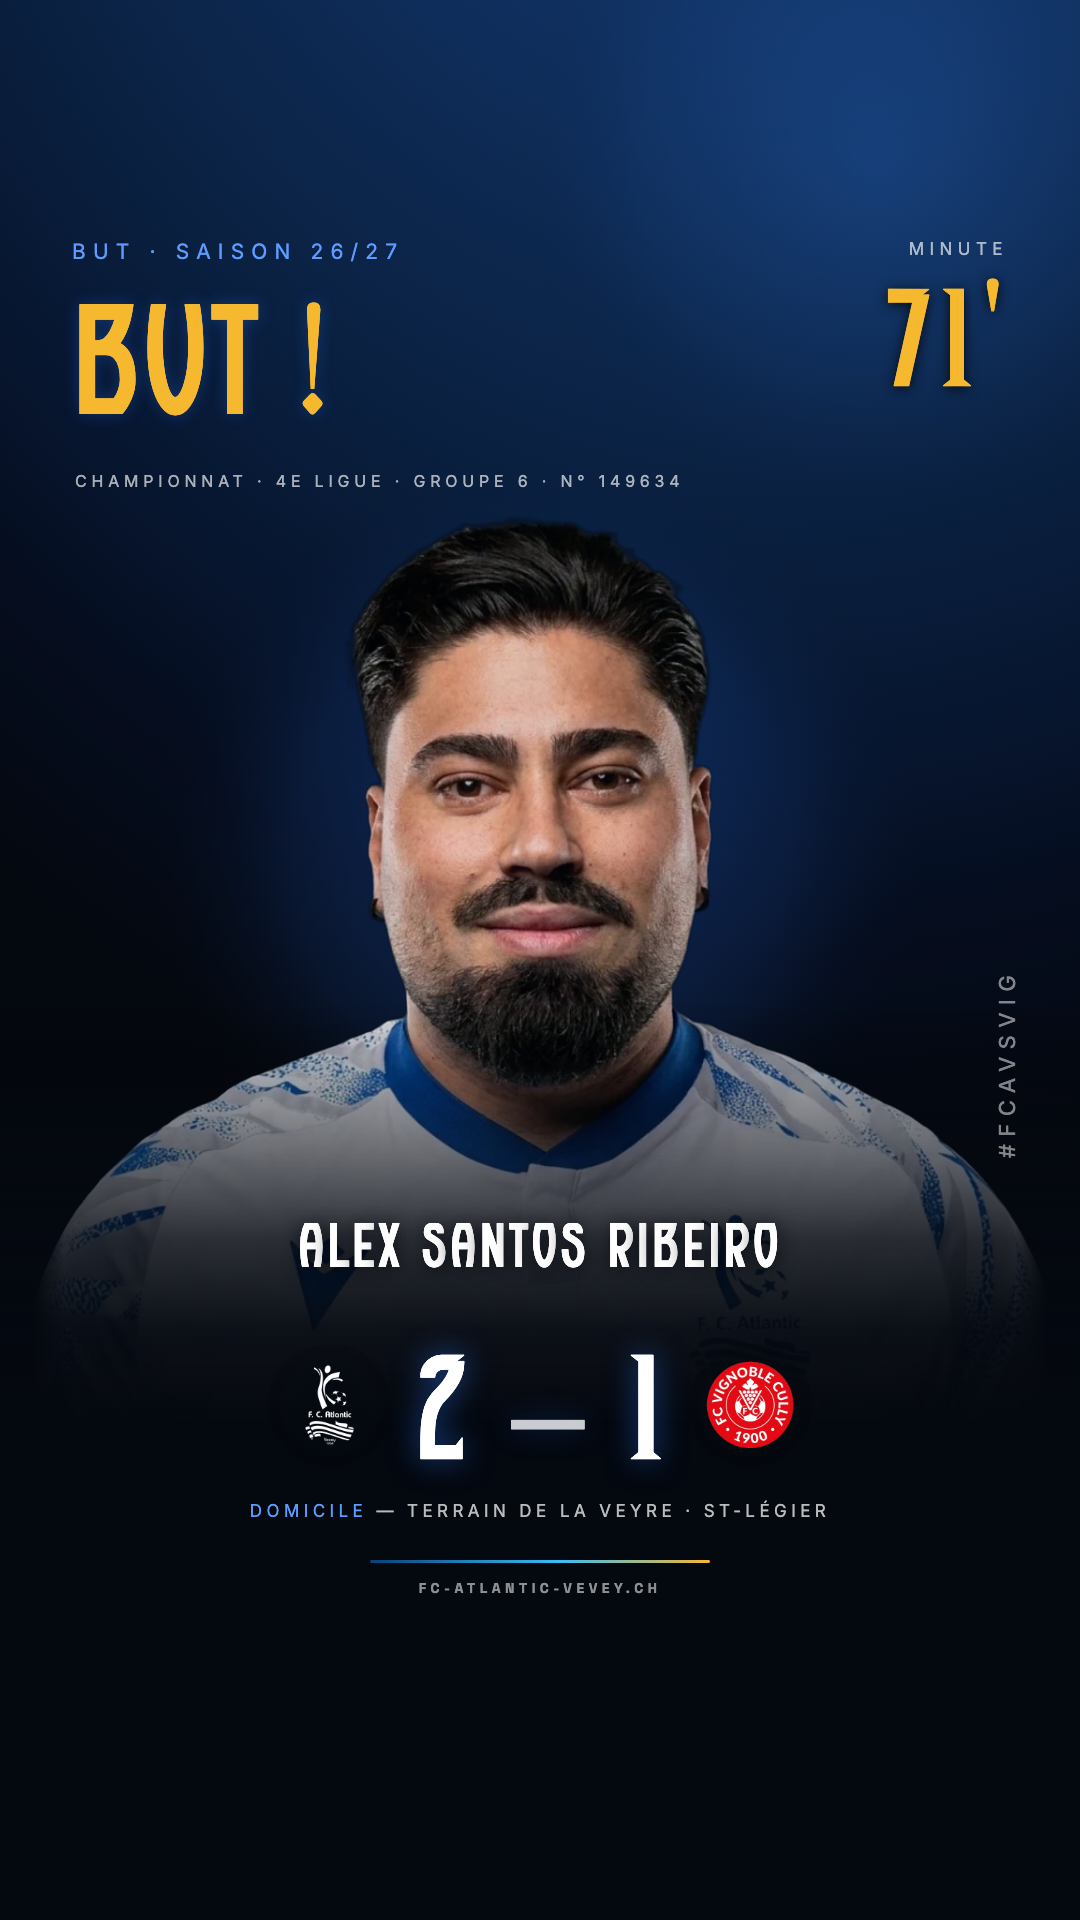
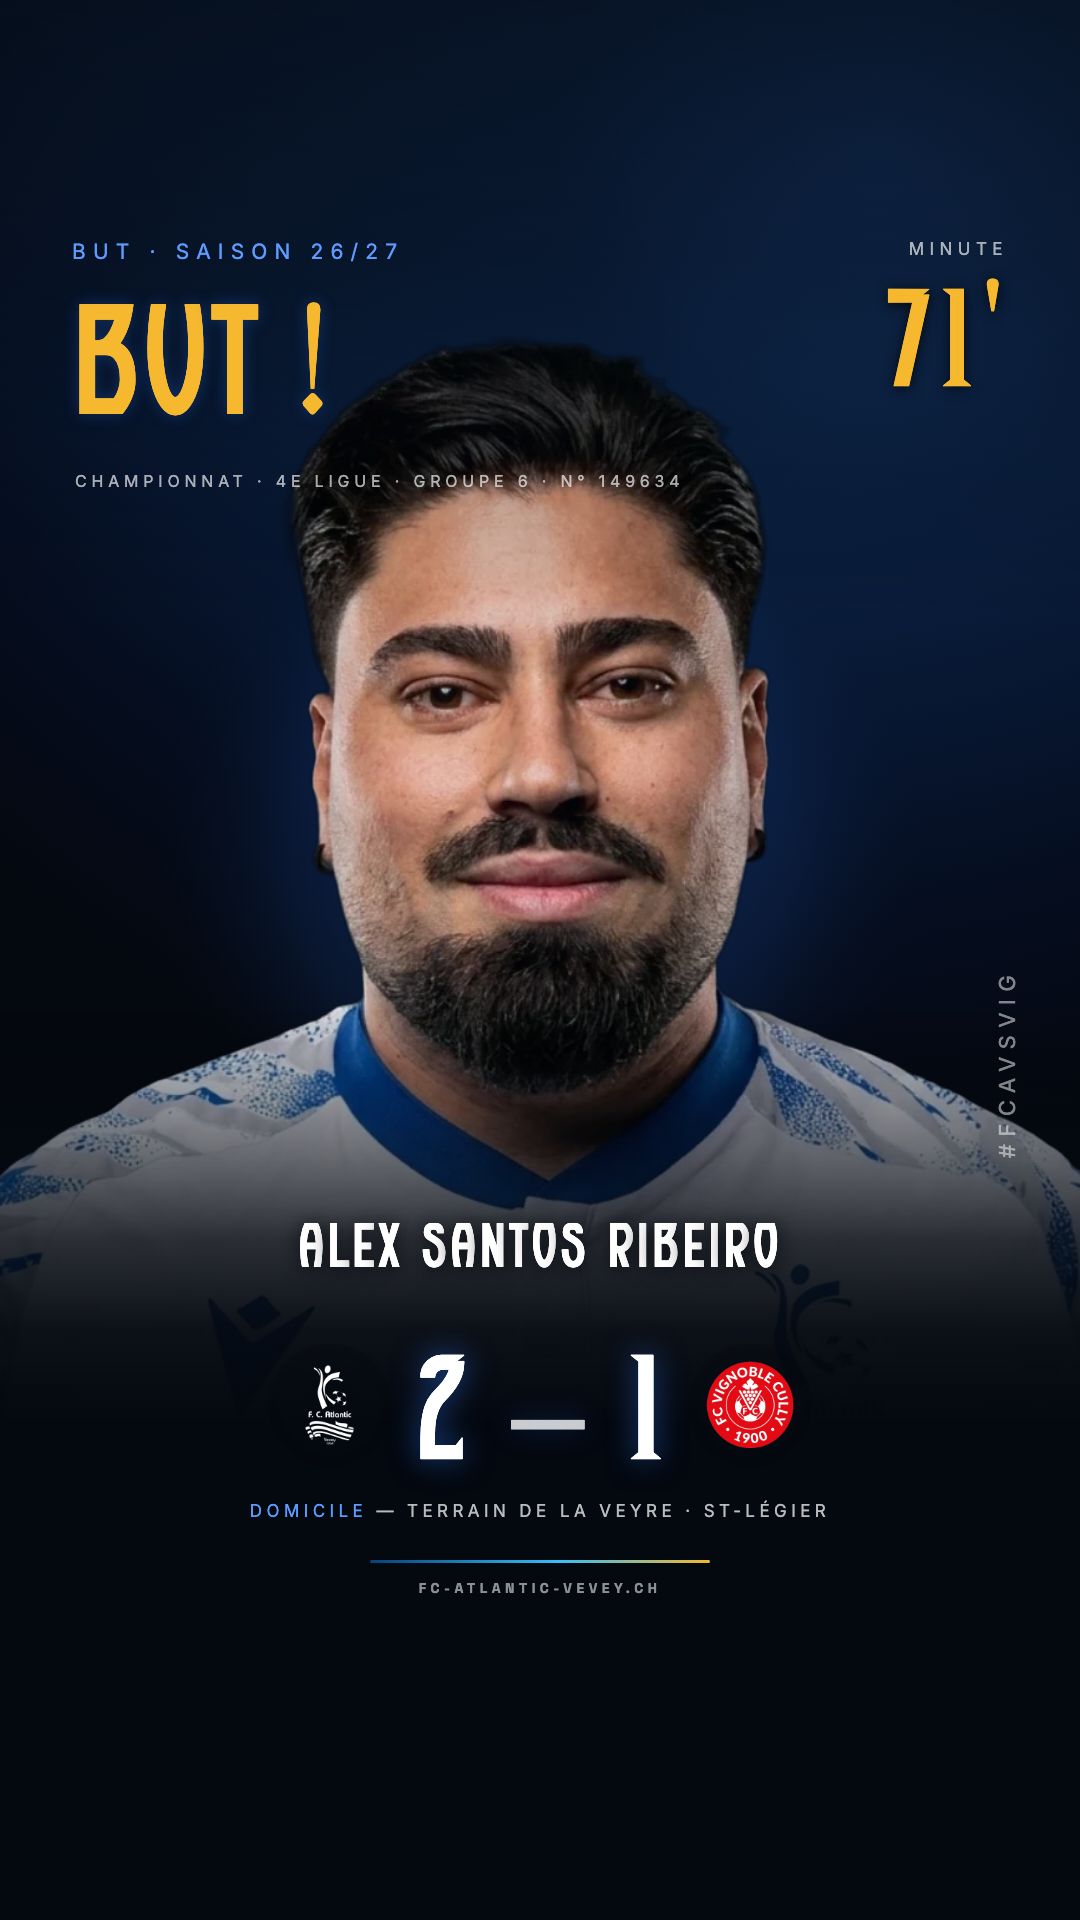
feat(design): joueur plein cadre + import d'une image de fond
Boss 11.08 : « plus zoomé, le joueur apparaît quasiment sur toute l'image de
haut en bas » + « laisser le choix d'upload aussi ».

- Le buste détouré passe de 1330 à 1700px de haut, ancré y330 : il occupe
  toute la hauteur et déborde du cadre. Positionné par la FACE (centrée dans
  la découpe) et non par le bord, pour que le décalage gauche/droite reste
  lisible malgré le débordement.
- Voile haut 620px sans bord visible : le titre reste net sur les cheveux
  (mesuré 18:1 sur les trois variantes testées).
- Tuile « Importer » dans le sélecteur de visage : le président charge sa
  propre photo, rendue plein cadre (cover) avec un dégradé de lecture en
  haut. Réduite à 1400px JPEG avant stockage — une photo d'iPhone brute
  ferait sauter le quota localStorage et emporterait l'état du match.
- Le choix (joueur OU image) est persisté avec le reste de l'état du match.

diff --git a/index.html b/index.html
@@ -672,6 +672,10 @@
     homeAway: 'away',
     // 'championnat' → eyebrow 4E LIGUE · GROUPE 6 + #4eLigue · 'coupe' → BCV CUP + #BCVCup · 'amical' → MATCH AMICAL
     competition: 'coupe',
+    // Image de fond importée par le président (dataURL JPEG réduite).
+    // Quand elle est posée, elle remplace le joueur sur toutes les variantes
+    // sauf « But » (là, c'est toujours le buteur).
+    customHeroImage: '',
     // Joueur en fond choisi à la main ('' = rotation automatique par match).
     // Ne s'applique JAMAIS au variant But : là, le héros est le buteur.
     heroPlayerId: '',
@@ -732,7 +736,39 @@
     const conv = withPhotos.filter(isConvoked);
     return (conv.length ? conv : withPhotos).sort((a, b) => (a.jerseyDisplay || 99) - (b.jerseyDisplay || 99));
   }
+  /* Import d'une image de fond. On la réduit à 1400px de large en JPEG
+     avant de la garder : une photo d'iPhone brute ferait exploser le quota
+     de stockage et l'état du match serait perdu au rechargement. */
+  window.loadHeroUpload = function(file) {
+    if (!file) return;
+    const reader = new FileReader();
+    reader.onload = () => {
+      const im = new Image();
+      im.onload = () => {
+        const maxW = 1400;
+        const scale = Math.min(1, maxW / im.width);
+        const c = document.createElement('canvas');
+        c.width = Math.round(im.width * scale);
+        c.height = Math.round(im.height * scale);
+        c.getContext('2d').drawImage(im, 0, 0, c.width, c.height);
+        state.customHeroImage = c.toDataURL('image/jpeg', 0.86);
+        state.heroPlayerId = '';
+        toast('Image de fond importée', 'blue');
+        renderPanel(); refresh();
+      };
+      im.onerror = () => toast('Image illisible', 'red');
+      im.src = reader.result;
+    };
+    reader.onerror = () => toast('Lecture impossible', 'red');
+    reader.readAsDataURL(file);
+  };
+  window.clearHeroUpload = function() {
+    state.customHeroImage = '';
+    toast('Image retirée', 'blue');
+    renderPanel(); refresh();
+  };
   window.setHeroPlayer = function(id) {
+    state.customHeroImage = '';
     state.heroPlayerId = id || '';
     const p = id ? BY_ID[id] : null;
     if (p) ensureCutout(p);
@@ -791,7 +827,10 @@
      pose sur le décor. On garde la photo d'origine en secours. */
   const CUTOUT_CACHE = {};
   const _cutoutFetching = new Set();
-  function heroImage(p) {
+  function heroImage(p, allowCustom = true) {
+    /* Image importée : elle porte son propre décor, on la traite en fond
+       plein cadre (pas en buste détouré). */
+    if (allowCustom && state.customHeroImage) return { src: state.customHeroImage, mode: 'bg' };
     if (!p) return null;
     if (p.cutoutUrl && CUTOUT_CACHE[p.cutoutUrl]) return { src: CUTOUT_CACHE[p.cutoutUrl], cut: true };
     const photo = getCachedPhoto(p);
@@ -1423,6 +1462,11 @@
        masque sa boîte. */
     photo(img, side = 'center') {
       if (!img) return '';
+      /* Image importée par le président : plein cadre, cadrée au centre. */
+      if (img.mode === 'bg') {
+        return `<div style="position:absolute; inset:0; background-image:url('${img.src}'); background-size:cover; background-position:center 22%; background-repeat:no-repeat; opacity:0.96;"></div>
+        <div style="position:absolute; inset:0; background:linear-gradient(180deg, rgba(4,8,15,0.72) 0%, rgba(4,8,15,0.3) 22%, transparent 44%);"></div>`;
+      }
       const haloX = side === 'right' ? '60%' : side === 'left' ? '40%' : '50%';
       const halo = `<div style="position:absolute; top:${side === 'center' ? 430 : 480}px; left:${haloX}; margin-left:-420px; width:840px; height:840px; background:radial-gradient(circle, rgba(46,123,255,0.28) 0%, rgba(46,123,255,0.1) 42%, transparent 68%);"></div>`;
       if (!img.cut) {
@@ -1430,12 +1474,17 @@
       ${halo}
       <div style="position:absolute; left:50%; margin-left:-540px; top:480px; width:1080px; height:1440px; background-image:url('${img.src}'); background-size:contain; background-position:center top; background-repeat:no-repeat;"></div>`;
       }
-      const w = 1010, h = 1330, top = 512;
-      const left = side === 'right' ? FB.vw - w + 132
-                 : side === 'left'  ? -132
-                 : Math.round((FB.vw - w) / 2);
+      /* Boss 11.08 : le joueur occupe QUASIMENT toute la hauteur. Le buste
+         déborde donc largement du cadre en largeur — on positionne par la
+         FACE (elle est centrée dans la découpe), pas par le bord. */
+      const h = 1700, w = Math.round(h * 0.79), top = 330;
+      const faceX = side === 'right' ? 0.63 : side === 'left' ? 0.37 : 0.5;
+      const left = Math.round(faceX * FB.vw - w / 2);
+      /* Le buste monte maintenant jusque dans la bande du titre : un voile
+         haut sans bord visible garde le header lisible sur les cheveux. */
       return `${halo}
-      <div style="position:absolute; left:${left}px; top:${top}px; width:${w}px; height:${h}px; opacity:0.93; background-image:url('${img.src}'); background-size:contain; background-position:center top; background-repeat:no-repeat;"></div>`;
+      <div style="position:absolute; left:${left}px; top:${top}px; width:${w}px; height:${h}px; opacity:0.93; background-image:url('${img.src}'); background-size:contain; background-position:center top; background-repeat:no-repeat;"></div>
+      <div style="position:absolute; left:0; right:0; top:0; height:620px; background:linear-gradient(180deg, rgba(4,8,15,0.72) 0%, rgba(4,8,15,0.5) 42%, rgba(4,8,15,0.2) 72%, transparent 100%);"></div>`;
     },
     /* Côté du buste par variante : deux stories publiées à la suite ne
        présentent jamais la même image au même endroit. */
@@ -2340,10 +2389,19 @@
         <span class="b blue">${state.heroPlayerId ? 'choisi' : 'auto'}</span>
       </div>
       <div class="hero-grid">
-        <div class="hero-mini ${state.heroPlayerId ? '' : 'on'}" onclick="setHeroPlayer('')">
+        <div class="hero-mini ${(state.heroPlayerId || state.customHeroImage) ? '' : 'on'}" onclick="setHeroPlayer('')">
           <div class="hero-auto">AUTO</div>
           <div class="hero-name">Rotation</div>
         </div>
+        <label class="hero-mini ${state.customHeroImage ? 'on' : ''}" style="cursor:pointer;">
+          <div class="hero-img" style="display:flex; align-items:center; justify-content:center; border:1px dashed rgba(255,255,255,0.35);">
+            ${state.customHeroImage
+              ? `<img src="${state.customHeroImage}">`
+              : `<span style="font-family:'Inter',sans-serif; font-weight:700; font-size:16px; color:rgba(255,255,255,0.6);">+</span>`}
+          </div>
+          <div class="hero-name">${state.customHeroImage ? 'Ma photo' : 'Importer'}</div>
+          <input type="file" accept="image/*" id="hero-upload" style="display:none;">
+        </label>
         ${heroCandidates().map(p => `
           <div class="hero-mini ${state.heroPlayerId === p.id ? 'on' : ''}" onclick="setHeroPlayer('${p.id}')">
             <div class="hero-img">${p.photoUrl ? `<img src="${p.photoUrl}" loading="lazy">` : ''}</div>
@@ -2351,7 +2409,7 @@
             <div class="hero-name">${p.lastName}</div>
           </div>`).join('')}
       </div>
-      <div class="match-note">Le visage des visuels. « But » utilise toujours le buteur.</div>
+      <div class="match-note">Le visage des visuels. « But » utilise toujours le buteur.${state.customHeroImage ? ' <a href="#" onclick="clearHeroUpload();return false;" style="color:#F87171;">Retirer l\'image</a>' : ''}</div>
 
       <!-- BALLONS DE MATCH — sponsors qui apparaîtront sur matchday / kickoff / recap -->
       <div class="panel-label" style="margin-top:18px;">Ballons de match <span class="b">${state.matchBallSponsors.length}</span></div>
@@ -2650,6 +2708,8 @@
     document.querySelectorAll('.match-row').forEach(b => b.addEventListener('click', () => applyMatch(b.dataset.mid)));
     // Heure — SEUL champ éditable du match. L'éditer pose la garde pour qu'un
     // refresh bundle tardif ne réécrase pas l'horaire choisi par le président.
+    const up = document.getElementById('hero-upload');
+    if (up) up.addEventListener('change', e => loadHeroUpload(e.target.files && e.target.files[0]));
     const tInput = document.getElementById('time-input');
     if (tInput) tInput.addEventListener('input', e => {
       state.kickoff.time = e.target.value;
@@ -3012,7 +3072,7 @@
   const LIVE_KEY_PREFIX = 'fca-mc:v1:live:';
   const LAST_KEY = 'fca-mc:v1:last';
   const LIVE_TTL_MS = 12 * 3600 * 1000;
-  const PERSIST_FIELDS = ['variant','format','homeAway','competition','convokedPlayers','heroPlayerId',
+  const PERSIST_FIELDS = ['variant','format','homeAway','competition','convokedPlayers','heroPlayerId','customHeroImage',
     'competitionSub','matchId','_userPickedMatch','opponentSlug','matchNumber','venue','venueCity',
     'kickoff','matchBallSponsors','score','minute','scorerId','scorerSide','formation','captainId',
     'lineupStarters','lineupBench','guests','goals','customMessage','captionOverride'];

diff --git a/DESIGN-SYSTEM-2627.md b/DESIGN-SYSTEM-2627.md
@@ -100,7 +100,17 @@ version **détourée** vit désormais à côté sur le site :
 `/players/cutout/<slug>.webp` (générée par `rembg` modèle `birefnet-portrait`,
 exposée par le bundle en `photoCutoutUrl`).
 
-- Le buste détouré est posé à **0.93 d'opacité**, largeur 1010, ancré y512.
+- Le buste détouré est posé à **0.93 d'opacité**, hauteur **1700** ancrée y330 :
+  le joueur occupe QUASIMENT toute la hauteur (loi Boss 11.08) et déborde
+  donc du cadre en largeur. On le positionne par la **face** (centrée dans la
+  découpe), pas par le bord : `left = faceX × largeurCanvas − largeur/2`,
+  avec faceX = .63 (droite) / .37 (gauche) / .50 (centre).
+- Un **voile haut** (620px, sans bord visible) garde le header lisible sur les
+  cheveux — mesuré 18:1 sur les titres.
+- **Image importée** : le président peut charger sa propre photo (tuile
+  « Importer »). Elle porte son décor → rendue plein cadre (`cover`, ancrée
+  22 % du haut), pas en buste. Réduite à 1400px / JPEG 0.86 avant stockage,
+  sinon le quota localStorage explose et l'état du match est perdu.
 - **Décalage par variante** (`FB.side`) — deux stories publiées à la suite ne
   montrent jamais l'image au même endroit :
   matchday **droite** · kickoff **gauche** · live **droite** ·
